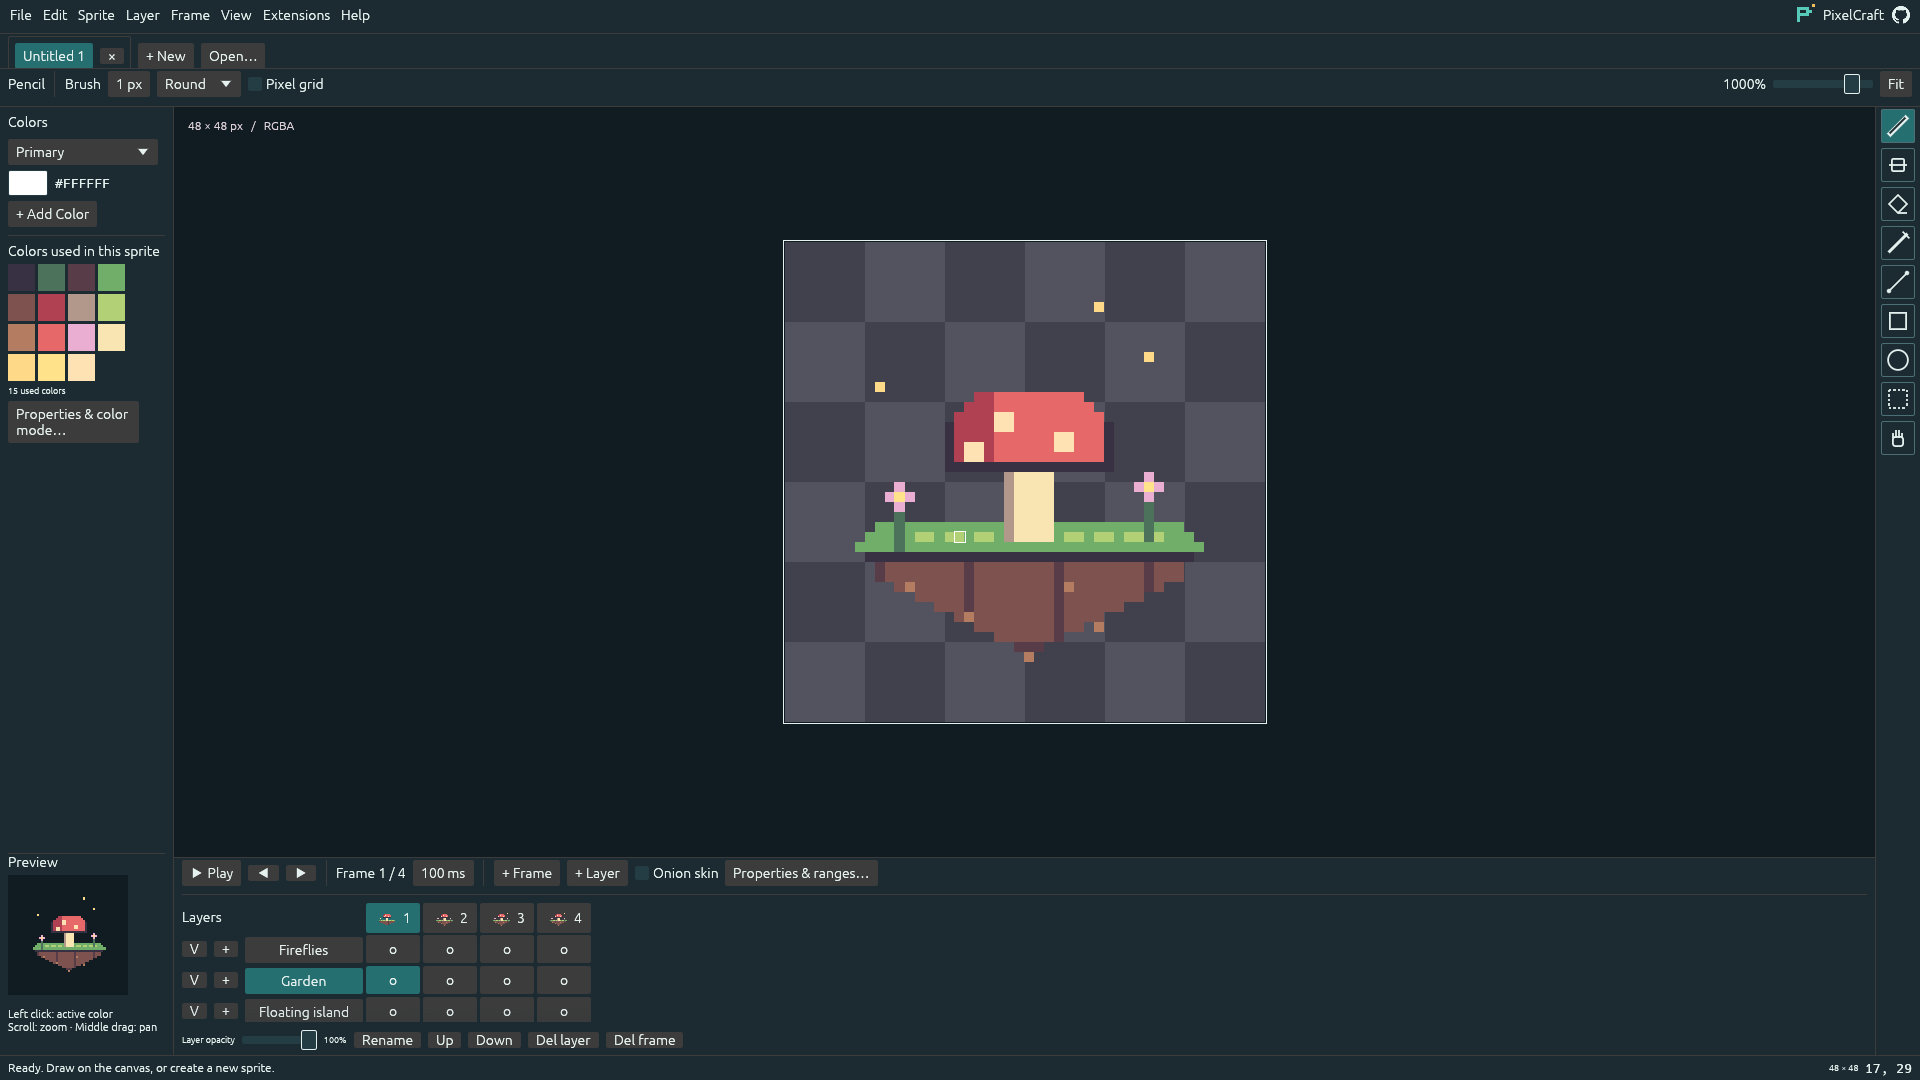
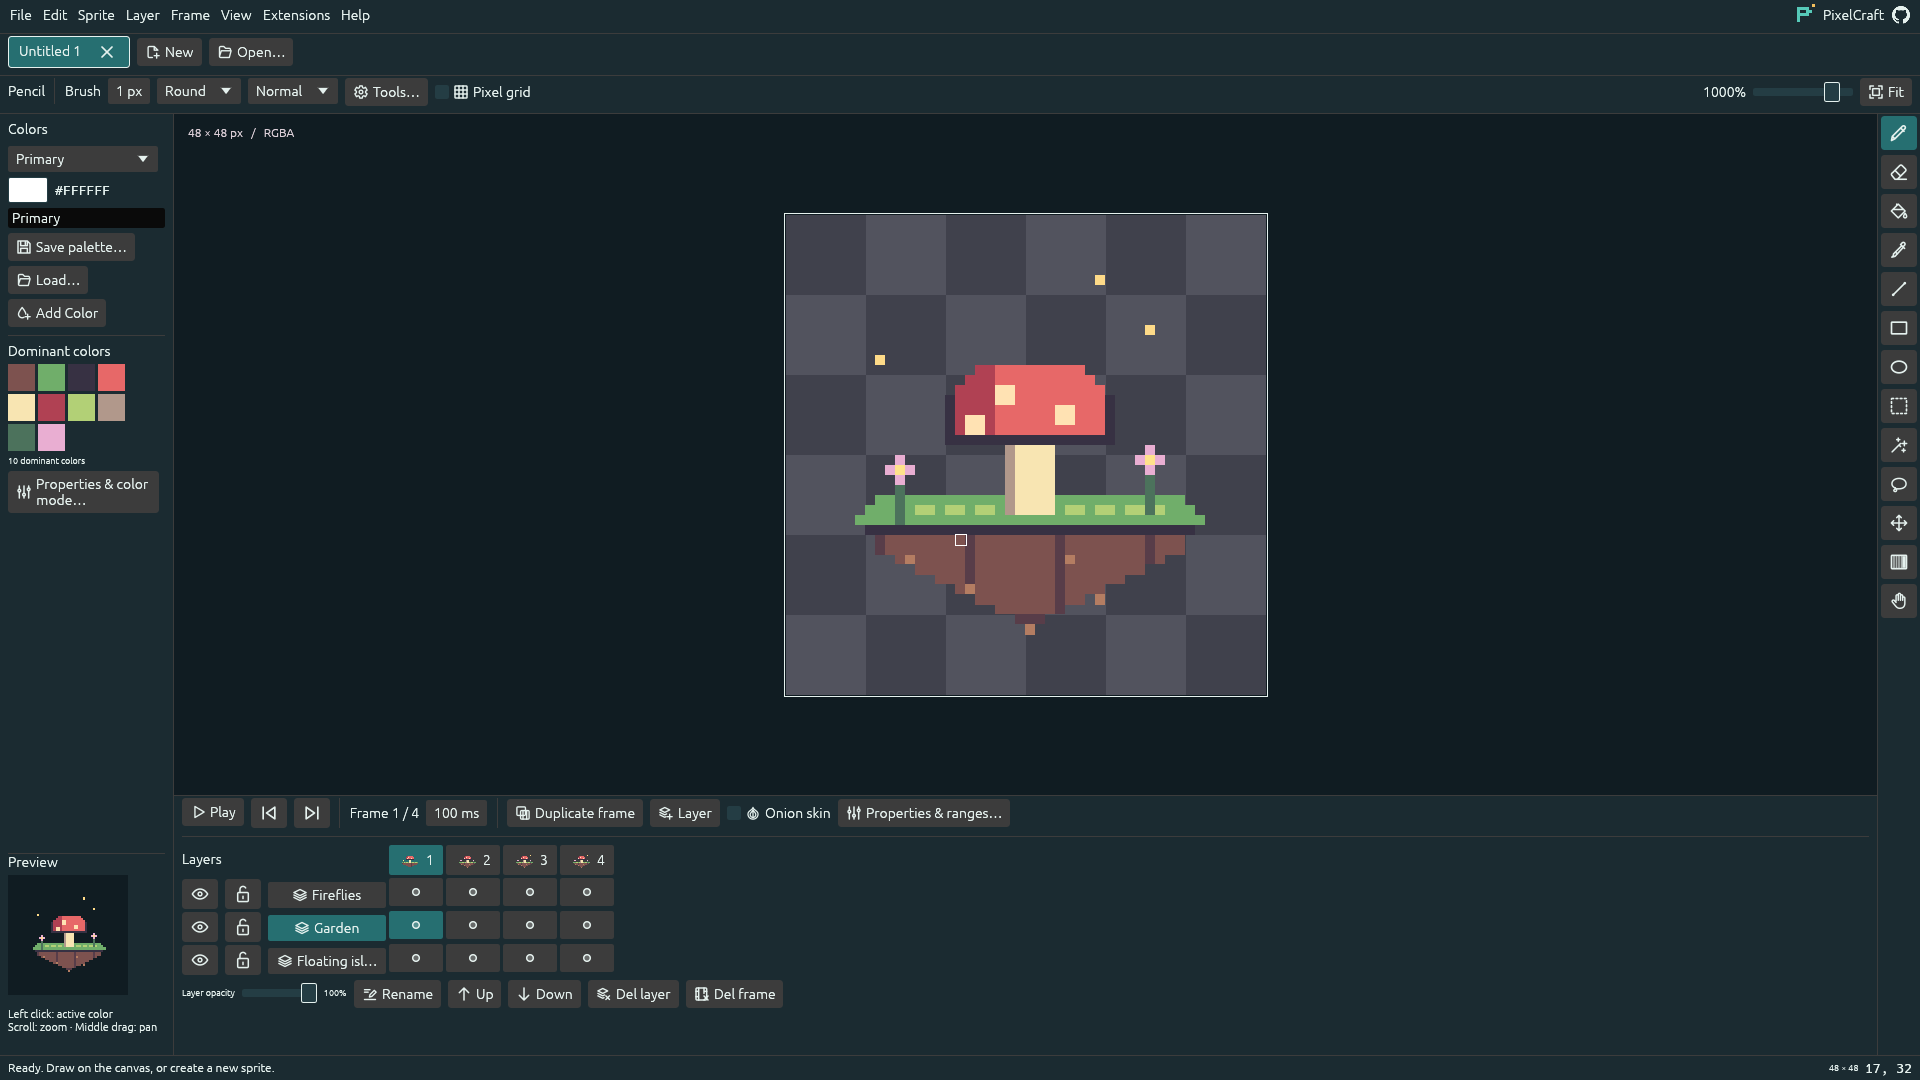
Refresh README screenshot for PixelCraft v0.4.1 at 1080p

diff --git a/README.md b/README.md
@@ -30,7 +30,7 @@
 </p>
 
 <p align="center">
-  <img src="shots/pixelcraft.png" alt="PixelCraft's current interface at 1920×1080, showing sprite tabs, the compact Colors selector, used-color swatches, mushroom garden artwork, drawing tools and animation timeline" width="100%">
+  <img src="shots/pixelcraft.png" alt="PixelCraft's current interface at 1920×1080, showing sprite tabs, the compact Colors selector, dominant-color swatches, mushroom garden artwork, drawing tools and animation timeline" width="100%">
   <br>
   <sub>The editor with its built-in garden sample: three layers, four frames, and editable pixel artwork.</sub>
 </p>
